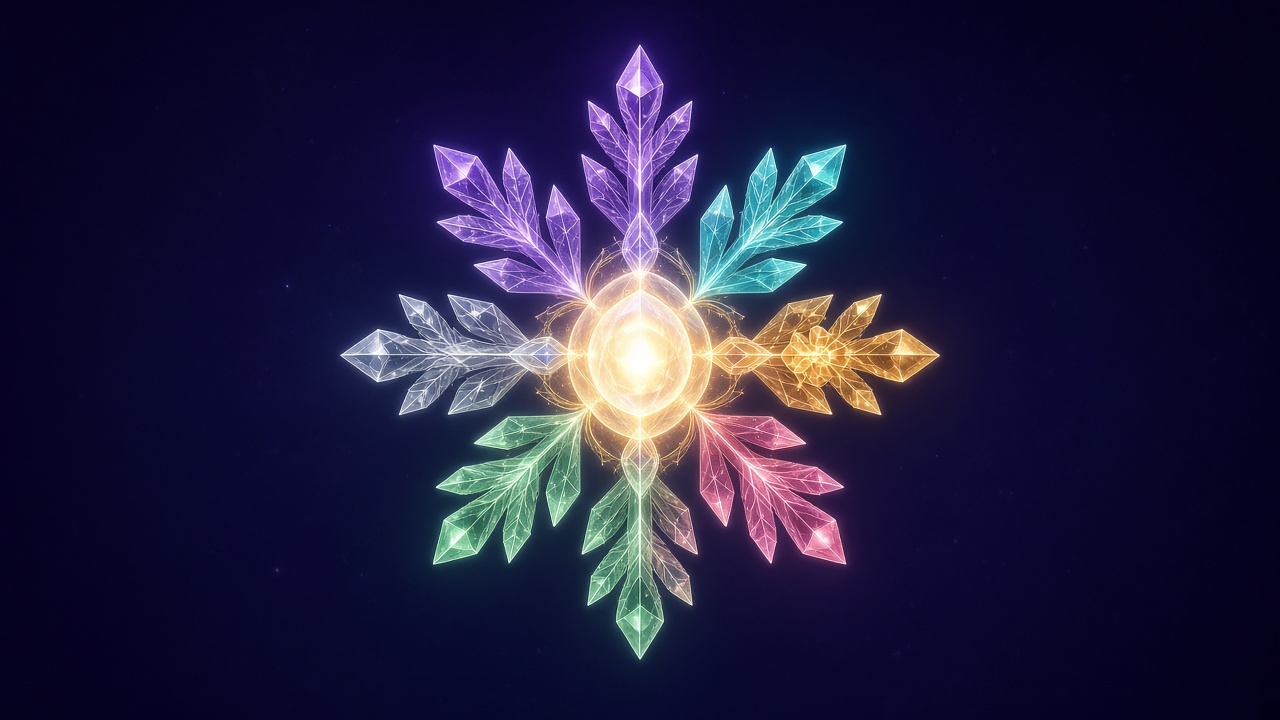
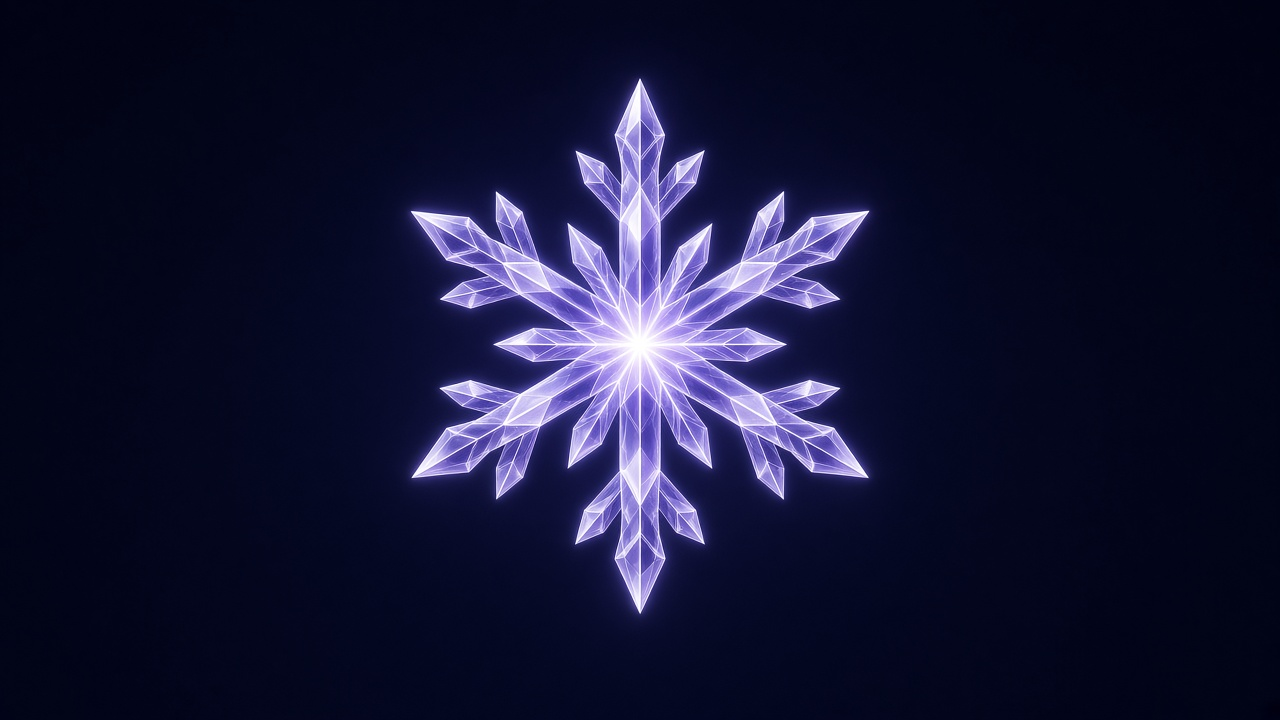
Upgrade hero crystal mark and fix mobile squash

Changed region(s): [[0.2188, 0.0, 0.75, 0.9167]]

diff --git a/styles.css b/styles.css
@@ -199,11 +199,17 @@ button { font-family: inherit; cursor: pointer; }
   border: 1px dotted rgba(192, 132, 252, 0.25);
 }
 .mark {
-  width: min(280px, 68%);
-  filter: drop-shadow(0 0 28px rgba(168, 85, 247, 0.55));
+  width: min(300px, 72vw);
+  max-width: 300px;
+  height: auto;
+  aspect-ratio: 1 / 1;
+  object-fit: contain;
+  object-position: center;
+  filter: drop-shadow(0 0 32px rgba(168, 85, 247, 0.55));
   animation: floaty 6s ease-in-out infinite;
   position: relative;
   z-index: 1;
+  border-radius: 18px;
 }
 @keyframes floaty {
   0%, 100% { transform: translateY(0); }
@@ -530,6 +536,16 @@ section { padding: 3.5rem 0; }
 @media (max-width: 900px) {
   .hero { grid-template-columns: 1fr; padding-top: 2.5rem; text-align: center; }
   .hero-sub { margin-inline: auto; }
+  .hero-visual {
+    min-height: 300px;
+    margin-inline: auto;
+    width: min(340px, 92vw);
+  }
+  .mark {
+    width: min(260px, 70vw);
+    max-width: 260px;
+  }
+  .cta-row { justify-content: center; }
   .cta-row { justify-content: center; }
   .beats { grid-template-columns: 1fr 1fr; }
   .trust-grid { grid-template-columns: 1fr; }

diff --git a/index.html b/index.html
@@ -52,7 +52,7 @@
           <span class="b">Bond</span>
           <span class="v">Values</span>
         </div>
-        <img class="mark" src="assets/soulflake-mark.png" alt="" width="280" height="280" />
+        <img class="mark" src="assets/soulflake-mark.png" alt="Soul Flake crystal" width="600" height="600" />
       </div>
     </section>
 
